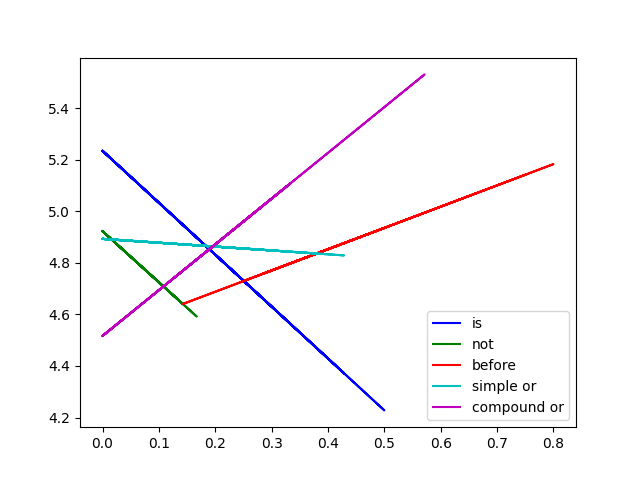
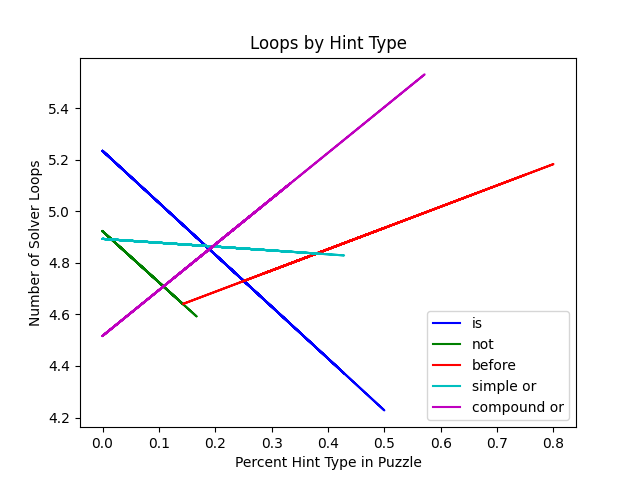
datavis hint type

Changed region(s): [[0.4062, 0.0625, 0.625, 0.125], [0.0312, 0.3438, 0.0625, 0.6875], [0.375, 0.9375, 0.6562, 1.0]]

diff --git a/DataVisualization.py b/DataVisualization.py
@@ -65,26 +65,29 @@ def plot_hint_type_averages(averages, folder):
     def var_to_english(hint_type):
         return hint_type.replace("_", " ")
     plt.clf()
+    plt.title("Average Hints per Puzzle")
     plt.pie(averages.values(), labels=list(map(var_to_english, averages.keys())), autopct='%1.1f%%')
     plt.savefig(folder + '/hint_types_pie.png')
 
 def plot_type_vs_loops(loops, hint_pcts, folder):
-    print(len(loops))
     def var_to_english(hint_type):
         return hint_type.replace("_", " ")
     colors = ['b', 'g', 'r', 'c', 'm']
     plt.clf()
+    plt.title("Loops by Hint Type")
+    plt.xlabel("Percent Hint Type in Puzzle")
+    plt.ylabel("Number of Solver Loops")
     i = 0
     for hint_type, pcts in hint_pcts.items():
         x = pcts
         y = loops
         z = np.polyfit(x, y, 1)
         p = np.poly1d(z)
-        # plt.scatter(x, y, label=var_to_english(hint_type), color=colors[i])
         plt.plot(x, p(x), color=colors[i], label=var_to_english(hint_type))
         plt.legend()
         i += 1
 
+    # plt.yticks(range(min(loops), max(loops)))
     plt.savefig(folder + '/hint_types_vs_loops.png')
 
 def first_feasible(histories): 
@@ -157,7 +160,6 @@ def process_folder(experiement_folder, num_trials):
     num = 1 
     for fitness, hint_set in feasible_pops: 
         hints = hint_set.hints 
-        hint_sizes.append(len(hints)) 
 
         hint_set_trace = {}
         try:
@@ -194,10 +196,10 @@ def process_folder(experiement_folder, num_trials):
             else:
                 duplicate_counts[english] = 0
 
-            #type anal 
-            kind = next(iter(hint)) 
-            types_counts[kind] += 1           
-            total_counts[kind] += 1 
+                #type anal 
+                kind = next(iter(hint)) 
+                types_counts[kind] += 1           
+                total_counts[kind] += 1 
 
         hint_file.write("\n\n")
 
@@ -209,6 +211,7 @@ def process_folder(experiement_folder, num_trials):
 
 
         num_duplicates = sum(duplicate_counts.values())
+        hint_sizes.append(len(hints) - num_duplicates) 
         total_duplicates += num_duplicates
         per_puzzle_duplicates.append(num_duplicates)
 
@@ -257,3 +260,4 @@ def process_folder(experiement_folder, num_trials):
 
 if __name__ == "__main__":
     process_folder("ExperimentsKaylah6", 30)
+    process_folder("ExperimentsKaylah7", 30)
